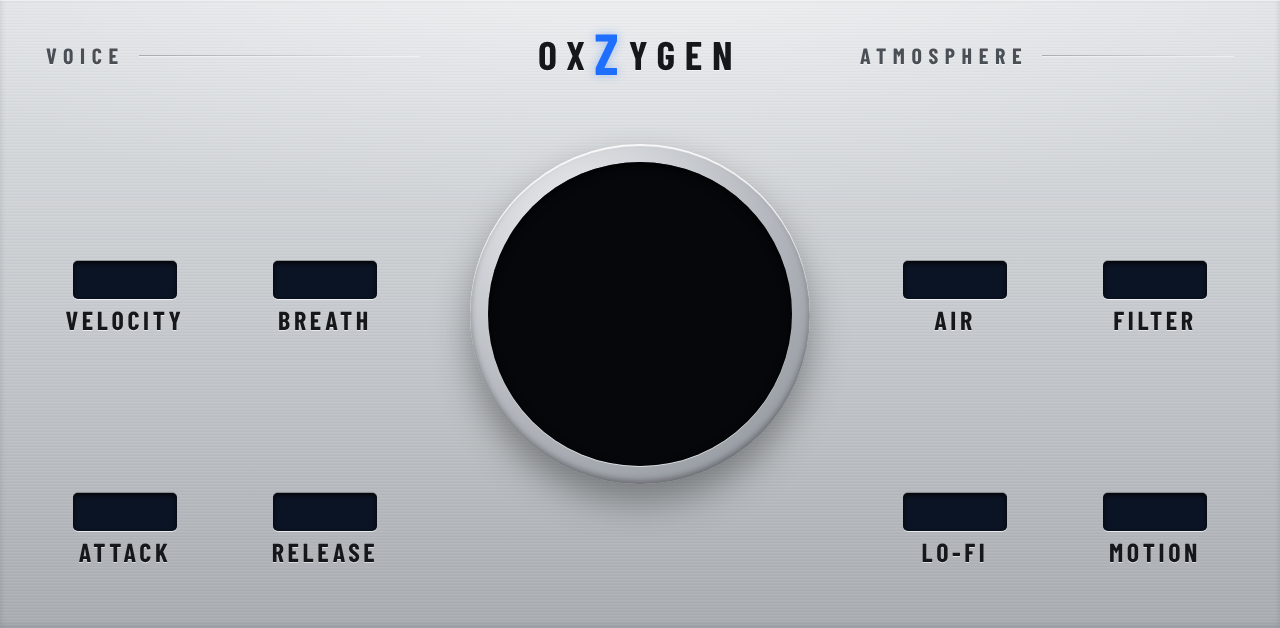
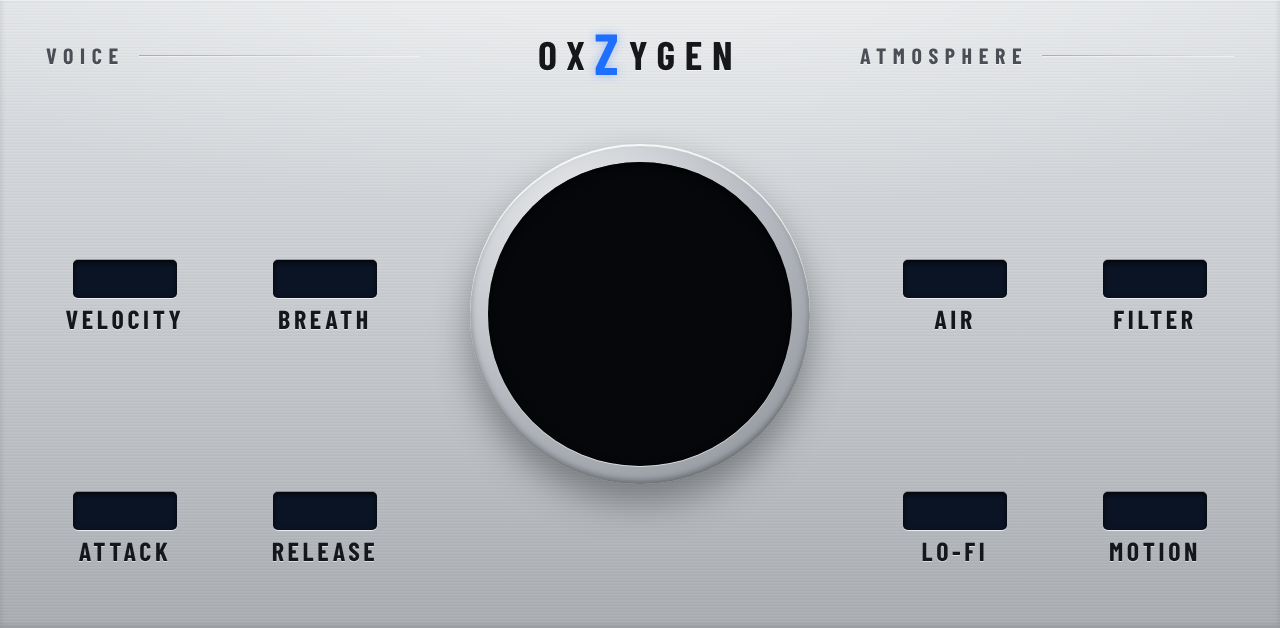
0.7.1: Player knobs r 58 so the filmstrip stays under MPC's 16384 px limit
Claude-Session: https://claude.ai/code/session_01JcLVG4HPbzGWwACmKsj6RZ

diff --git a/vst/skin/make_skin.py b/vst/skin/make_skin.py
@@ -49,7 +49,7 @@ PLAYER = {
         ("lofi", "Lo-Fi", 955, 518), ("motion", "Motion", 1155, 518),
     ],
 }
-PLAYER_R, PLAYER_VS, PLAYER_BW = 59, 30, 150   # 59: the largest a 128-frame strip may be on MPC
+PLAYER_R, PLAYER_VS, PLAYER_BW = 58, 30, 150   # 58: 126 px x 128 frames = 16128 px; 59 hits the 16384 limit and drifts on the device
 
 # SOUND page: slots A and B side by side, each a 610 x 600 panel
 # categories and their sounds (must match params.json); SOUNDS is the derived a_sound/b_sound list, in order

diff --git a/docs/release-notes-0.7.1.md b/docs/release-notes-0.7.1.md
@@ -1,4 +1,4 @@
-**OXZYGEN 0.7.0**: a dark, cinematic instrument for MPC standalone: choirs, vowels and sung "doo"s, flutes, reeds, brass, atmospheric strings, bells, Juno-style synths, wind and textures, with a CRT crystal-ball orb that reacts as you play.
+**OXZYGEN 0.7.1**: a dark, cinematic instrument for MPC standalone: choirs, vowels and sung "doo"s, flutes, reeds, brass, atmospheric strings, bells, Juno-style synths, wind and textures, with a CRT crystal-ball orb that reacts as you play.
 
 - Two sound slots, each picking a category (Voices, Winds, Brass, Strings, Bells, Synth, Air) and one of 22 sounds
 - Player page: Velocity, Breath, Attack, Release, Air, Filter (resonant), Lo-Fi, Motion; the mod wheel works on every sound
@@ -10,9 +10,9 @@
 
 | Zip | Device |
 |---|---|
-| `OxZygen-0.7.0-mpc-armv7.zip` | **Gen1**: MPC Live, Live II, One, X, Force on **MPC OS 3.x** |
-| `OxZygen-0.7.0-mpc-armv7-os2.zip` | the same Gen1 devices still on **MPC OS 2.x** |
-| `OxZygen-0.7.0-mpc-aarch64.zip` | **Gen2**: MPC Live III and the other 64-bit models (MPC OS 3.x) |
+| `OxZygen-0.7.1-mpc-armv7.zip` | **Gen1**: MPC Live, Live II, One, X, Force on **MPC OS 3.x** |
+| `OxZygen-0.7.1-mpc-armv7-os2.zip` | the same Gen1 devices still on **MPC OS 2.x** |
+| `OxZygen-0.7.1-mpc-aarch64.zip` | **Gen2**: MPC Live III and the other 64-bit models (MPC OS 3.x) |
 
 ## Requirements
 - An MPC OS standalone device (see above); about 130 MB free on the internal drive. The plugin uses about 131 MB of RAM once loaded.

diff --git a/docs/PLAN.md b/docs/PLAN.md
@@ -100,3 +100,6 @@ No Velocity control: MPC's own pad sensitivity and Full Level cover that. Preset
 ## Builds for every device (2026-11-05)
 - vst.json targets armv7 + aarch64; build.sh packages Gen1 OS3, Gen1 OS2 (SHADOW_SKIN_MPC_OS=2 skin, passes skin_compat for 2.x and 3.x) and Gen2 OS3.
 - Not yet tested on a Gen2 unit or an OS 2 unit.
+
+## 0.7.1: Player knobs fixed on the device (2026-11-05)
+- r 59 made a 16384 px strip, which MPC resamples: the knobs slid as they turned (seen on a Live II). Now r 58 (16128 px).
